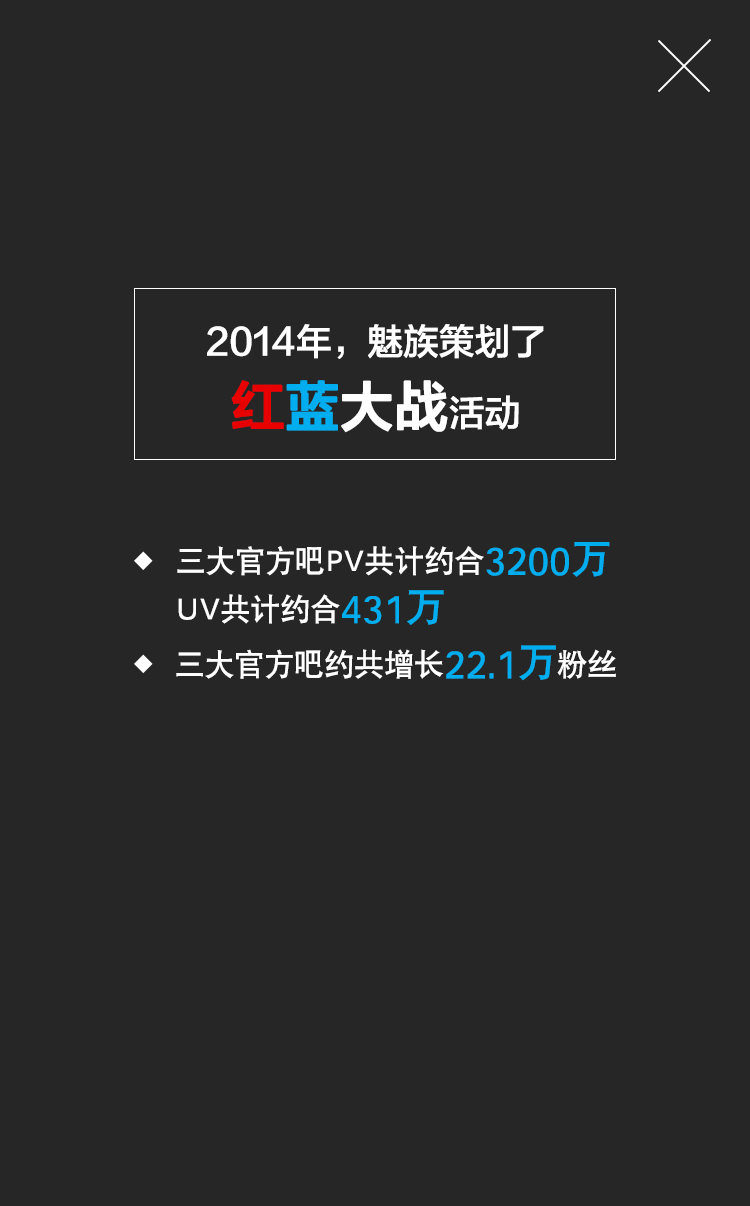
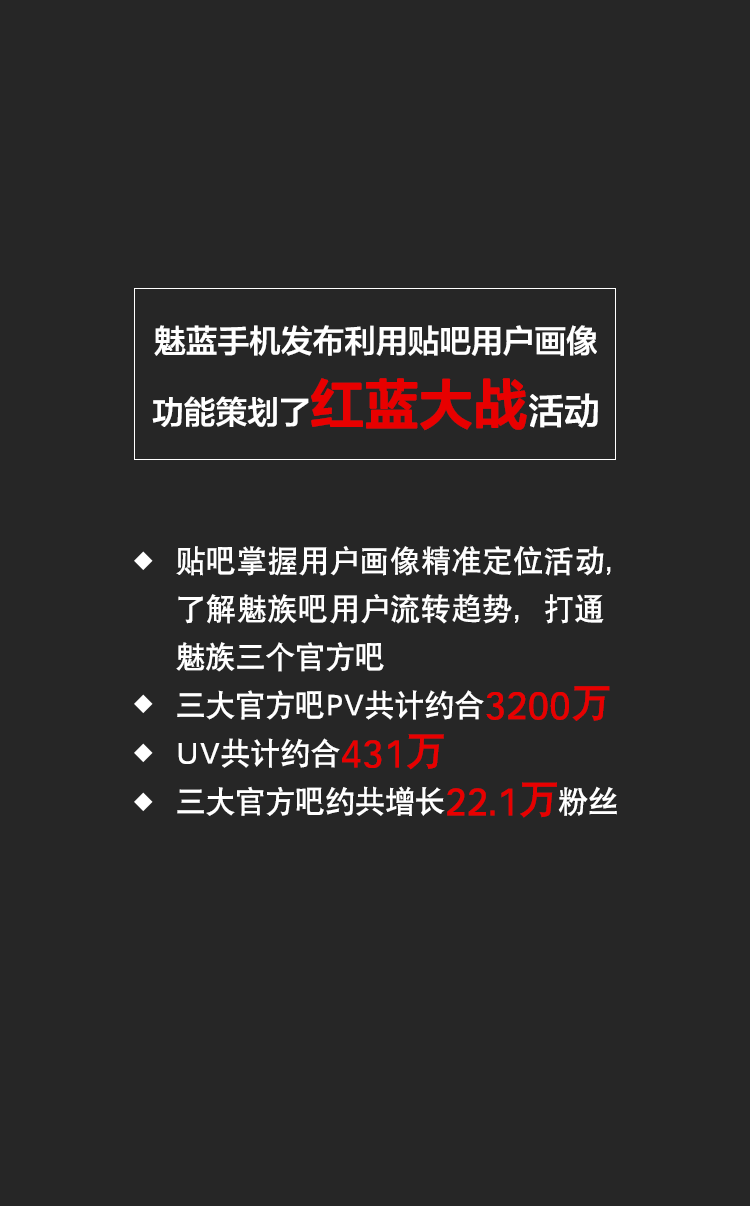
加入最后结果计算及权利等指数查看按钮

Changed region(s): [[0.184, 0.4295, 0.828, 0.675], [0.184, 0.2454, 0.7973, 0.3682], [0.8893, 0.0307, 0.92, 0.0614]]

diff --git a/static/js/anniversary/anniversary.js b/static/js/anniversary/anniversary.js
@@ -52,7 +52,7 @@ var zhongxinLevel = 1, jindongLevel = 1;
 var singLevel = 1, faceLevel = 1;
 var voiceLevel = 1, userLevel = 1;
 
-var moneyLevel=0, faceLevel=0, authLevel=0;
+var moneyLevel=0, faceTotalLevel=0, authLevel=0;
 
 touch.on('#j-swipe-card', 'touchstart', function(ev){
 	ev.preventDefault();
@@ -182,6 +182,7 @@ $('#j-jingdong-next').bind('click', function(){
 		moneyLevel = 1;
 		$('#j-money-result').text('100%，作为一名土豪，又会省钱，你命中注定是有钱人，去测试一下颜值，看能否变成白富美(高富帅）。')
 	}else{
+		moneyLevel = 0;
 		$('#j-money-result').text('50%，你是个屌丝，还不知道怎么省钱，彗星撞地球也挽救不了你的贫穷，看看能否用颜值改变自己的命运。')
 	}
 	if(testedCount==3){
@@ -262,7 +263,16 @@ $('.i-switch-off').bind('click', function(){
 	$(this).removeClass('i-switch-off').addClass('i-switch-on');
 	singTimer = setInterval(countdown, 1000);
 });
+
+// 结束唱歌，查看颜值部分结果
 $('#j-sing-next').bind('click', function(){
+	if(singLevel == 3 && faceLevel == 3){
+		faceTotalLevel = 1;
+		$('#j-face-result').text('100%，你的美貌就像天使，且喉清韵雅，去看看是否智慧和美貌并存')
+	}else{
+		faceTotalLevel = 0;
+		$('#j-face-result').text('50%，你相貌平平，声音也像乌鸦叫，要想出人头地，还是另择途径吧')	
+	}
 	swiper.slideTo(12)
 });
 
@@ -284,9 +294,18 @@ $("#j-voice-next").bind('click', function(){
 $("#j-get-user-result").bind('click', function(){
 	swiper.slideNext();
 });
+
+// 用户画像结束，查看权利部分结果
 $("#j-user-next").bind('click', function(){
 	var usr = $("#j-user-name-input").val();
 	$("#j-user-name").text(usr);
+	if(voiceLevel == 3 && userLevel == 3){
+		authLevel = 1;
+		$("#j-auth-result").text(' 100%，你虽然一呼百应，高权在握，但还是很羡慕国民老公王思聪')
+	}else{
+		authLevel = 0;
+		$("#j-auth-result").text('50%，你卑微如尘，天天在家玩泥巴不觉得厌倦么?出去试一试自己的财运吧！');
+	}
 	swiper.slideNext();
 });
 
@@ -330,7 +349,28 @@ jQdatas.bind('click', function(){
 	$(this).hide()
 });
 
+var jQfinal = $("#j-final-result");
 $(".j-go-result").bind('click', function(){
+
+	if(moneyLevel == 0 && faceTotalLevel == 1 && authLevel == 1){
+		jQfinal.empty()
+		jQfinal.append('<p>你长得正点，又有权有势</p><p>武媚娘想请你喝茶</p>')
+	}else if(moneyLevel == 0 && faceTotalLevel == 1 && authLevel == 0){
+		jQfinal.empty()
+		jQfinal.append('<p>恭喜你刷脸成功</p><p>成为新一代中老年过目难忘的偶像</p>')
+	}else if(moneyLevel == 0 && faceTotalLevel == 0 && authLevel == 1){
+		jQfinal.empty()
+		jQfinal.append('<p>你凭借天生的霸气</p><p>打破了这个世界看脸规则</p>')
+	}else if(moneyLevel == 0 && faceTotalLevel == 0 && authLevel == 0){
+		jQfinal.empty()
+		jQfinal.append('<p>你属于天煞孤星和丧门星和扫把星三星合体</p><p>天赋秉异，所向无敌</p>')
+	}else if(moneyLevel == 1 && faceTotalLevel == 0 && authLevel == 0){
+		jQfinal.empty()
+		jQfinal.append('<p>你天生财运旺盛</p><p>几乎完胜国民老公王思聪</p>')
+	}else if(moneyLevel == 1 && faceTotalLevel == 0 && authLevel == 1){
+		jQfinal.empty()
+		jQfinal.append('<p>你有钱有权，找一个漂亮的另一半</p><p>改善一下自己的基因，完全不是问题。</p>')
+	}
 	swiper.slideTo(18);
 });
 $("body").delegate('.j-test-over', 'click', function(){

diff --git a/templates/anniversary.html b/templates/anniversary.html
@@ -155,9 +155,9 @@
 	        	<i class="decr i-dec10"></i>
 	        	<i class="decr i-dec11"></i>	
 	        	<img id="j-sing-result" class="zhongxin-result" src="/static/css/anniversary/result/sing/1.png">
-	        	<img id="j-sing-data" class="data-btn" src="/static/css/anniversary/data/btn.png">
-	        	<img id="j-sing-next" class="next-btn" src="/static/css/anniversary/result/zhongxin/next.png"> 
-	        	<img id="j-sing-data" class="data-img" src="/static/css/anniversary/data/sing.png">       	
+	        	<img id="j-sing-data" class="part-data-btn" src="/static/css/anniversary/data/btn.png">
+	        	<img id="j-sing-next" class="part-result-btn" src="/static/css/anniversary/result/sing/next.png"> 
+	        	<img class="data-img" src="/static/css/anniversary/data/sing.png">       	
 	        </div>	        
 	        <!-- 颜值部分结果12 -->
 	        <div class="swiper-slide m1" id="p13">
@@ -195,9 +195,9 @@
 	        <div class="swiper-slide m1" id="user-result">
 	        	<img class="user-img" src="/static/css/anniversary/icon/user-image.png">
 	        	<img id="j-user-result" class="user-result" src="/static/css/anniversary/result/user/1.png">
-	        	<img id="j-user-data" class="data-btn" src="/static/css/anniversary/data/btn.png">
-	        	<img id="j-user-next" class="next-btn" src="/static/css/anniversary/result/zhongxin/next.png"> 
-	        	<img id="j-user-data" class="data-img" src="/static/css/anniversary/data/user.png">        	
+	        	<img id="j-user-data" class="part-data-btn" src="/static/css/anniversary/data/btn.png">
+	        	<img id="j-user-next" class="part-result-btn" src="/static/css/anniversary/result/user/next.png"> 
+	        	<img class="data-img" src="/static/css/anniversary/data/user.png">        	
 	        </div>	
 	        <!-- 权利结果17 -->
 	        <div class="swiper-slide m1" id="p14">
@@ -216,13 +216,13 @@
 	        	<i class="icon6 i-final"></i> 
 	        	<div class="final-result">
 	        		<p id="j-user-name"></p>
-	        		<p>你凭借超高的颜值</p>
-	        		<p>玩转金钱与权力游刃有余</p>
+	        		<div id="j-final-result">
+						<p>你凭借超高的颜值</p>
+	        			<p>玩转金钱与权力游刃有余</p>
+	        		</div>        		
 	        	</div>
-	        	<!-- <i class="icon6 i-share-msg"></i>  -->
-	        	<!-- <i class="icon6 i-share-timeline"></i>	        	      	 -->
 	        	<img class="share-btn" src="/static/css/anniversary/icon/share.png">
-	        	<img class="more-btn" src="/static/css/anniversary/icon/more.png">
+	        	<a href="weixin://contacts/profile/tb-qiye"><img class="more-btn" src="/static/css/anniversary/icon/more.png"></a>
 	        </div>		        
 	    </div>
 	</div>
@@ -231,7 +231,7 @@
 	<script type="text/javascript" src="/static/js/touch.js"></script>	
 	<script type="text/javascript" src="/static/js/anniversary/util.js"></script>
 	<script type="text/javascript" src="/static/js/anniversary/shake.js"></script>
-	<script type="text/javascript" src="/static/js/anniversary/anniversary.js?v=1.7"></script>
+	<script type="text/javascript" src="/static/js/anniversary/anniversary.js?v=1.8"></script>
 	<script type="text/javascript" src="http://res.wx.qq.com/open/js/jweixin-1.0.0.js"></script>
 	<script type="text/javascript">
 		wx.config({

diff --git a/static/css/anniversary/layout.css b/static/css/anniversary/layout.css
@@ -43,6 +43,7 @@ html,body {
   left: 50%;
   margin-left: -200px;  
 }
+
 .part-data-btn{
   width: 400px;
   position: absolute;
@@ -50,6 +51,15 @@ html,body {
   left: 50%;
   margin-left: -200px;    
 }
+#user-result .part-data-btn{
+  top: auto;
+  bottom: 150px;
+}
+#user-result .part-result-btn{
+  top: auto;
+  bottom: 50px;
+}
+
 .data-img{
   z-index: 10000;
   position: absolute;

diff --git a/tieba/views.py b/tieba/views.py
@@ -389,14 +389,14 @@ def anniversary(request):
 		print EXPIRETIME
 		print TICKET
 
-	url = 'http://ssld-vi.com/tieba/invitation2'
+	url = 'http://ssld-vi.com/tieba/anniversary'
 	if len(request.GET) > 0:
 		url = url + "?" + urllib.urlencode(request.GET)
 	sign = Sign(TICKET, url)
 	tick = sign.sign()
 	tick['appId'] = APPID
 	sig = tick['signature']
-	
+
 	return render_to_response('anniversary.html', {'jsticket' : tick, 'sig': sig})
 
 
